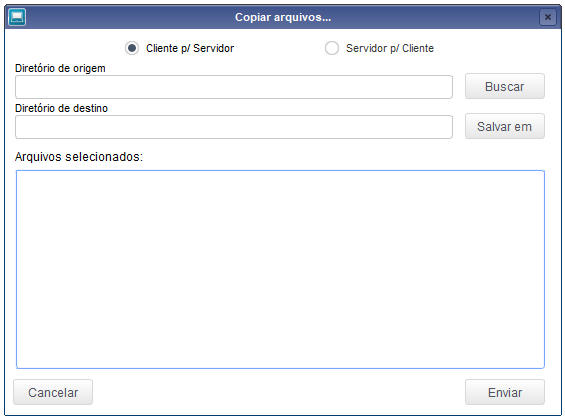
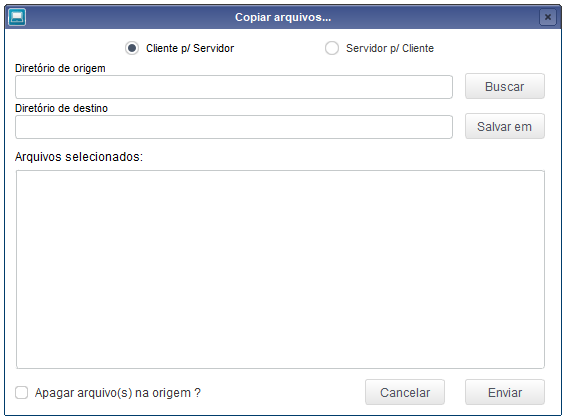
AJustes README para nova funcionalidade

diff --git a/README.md b/README.md
@@ -12,7 +12,7 @@ Transferir arquivos entre client e server (ROOTPATH). Desenvolvida na linguagem 
 
 ## Definição
 
-Rotina para realizar a transferencia de arquivos entre o cliente que está executando o 'smartclient' e o servidor, dentro da ROOTPATH.
+Rotina para realizar a transferencia de arquivos entre o cliente que está executando o 'smartclient' e o servidor, dentro da ROOTPATH. Posibilitando a exclusão dos arquivos da origem caso deseje.
 
 <br />
 
@@ -41,3 +41,4 @@ Após selecionar os diretórios e arquivos clique em 'Enviar' para realizar a tr
 ## Observações
 Ao mudar o fluxo de transferencia, mudando entre 'Cliente p/ Servidor' e 'Servidor p/ Cliente' os dados preenchidos serão apagados.
 ![](assets/mudar_fluxo_transferencia.gif)
+
